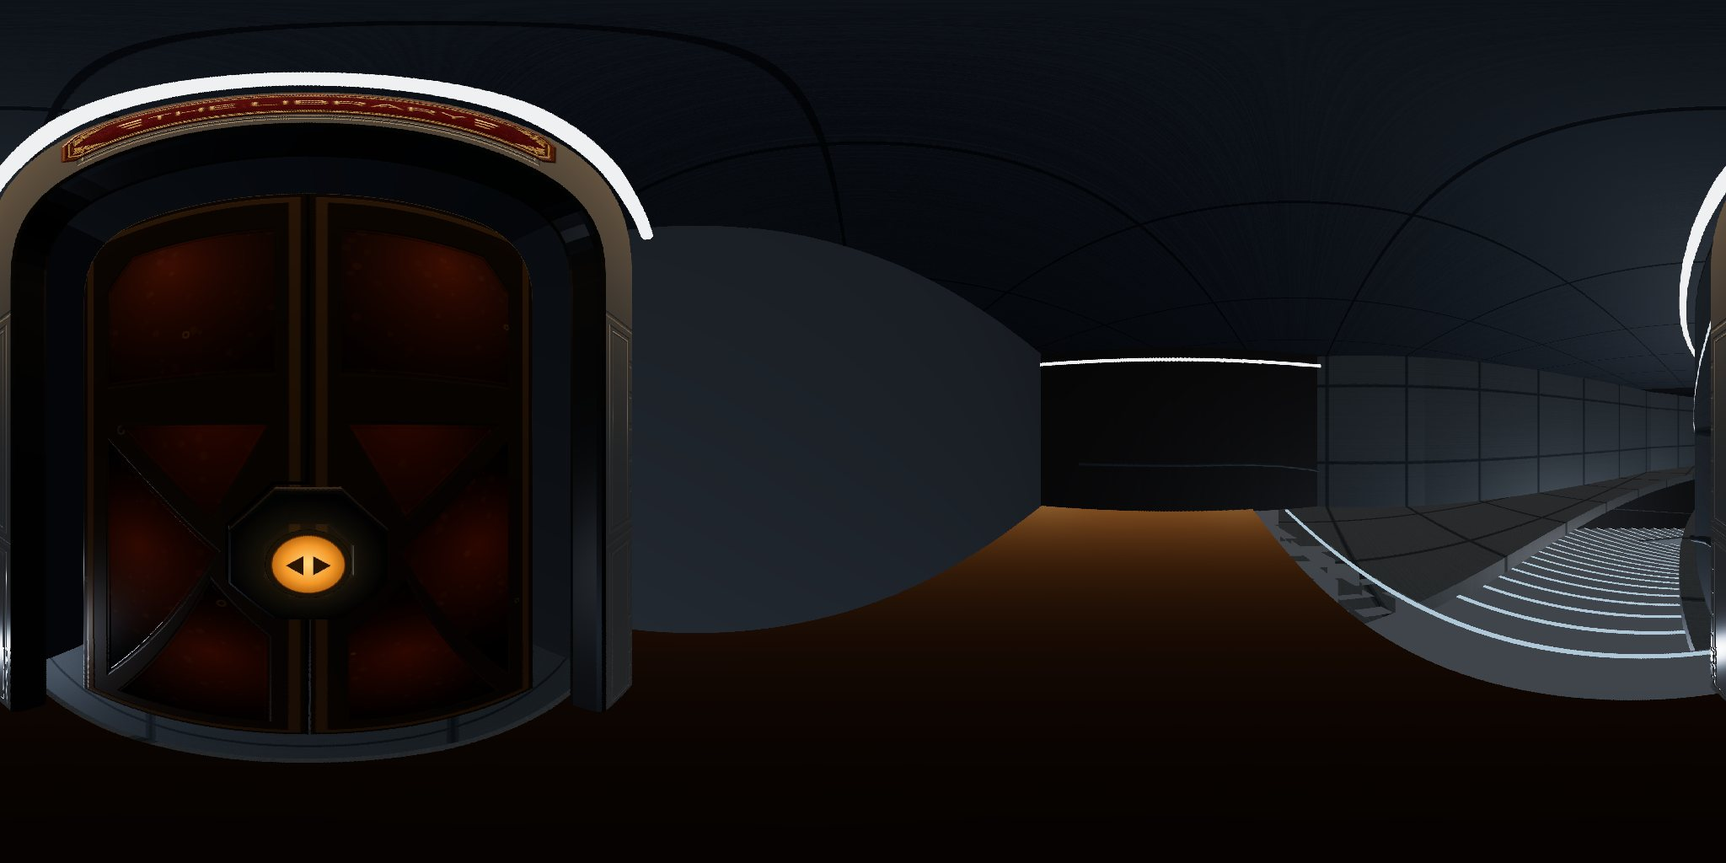
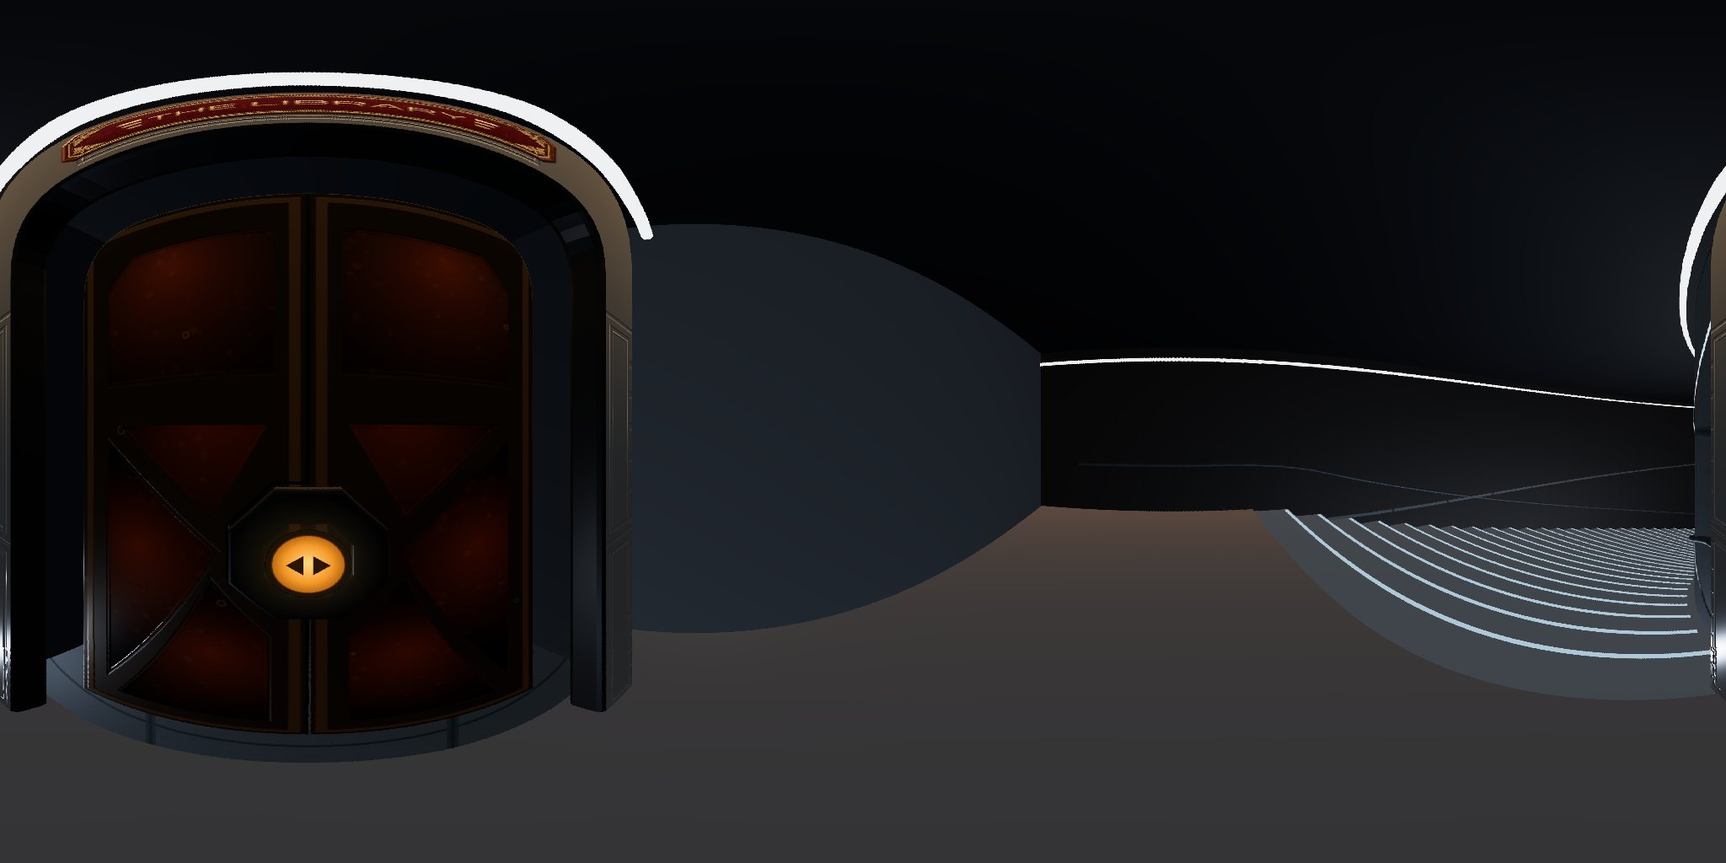
Stairwell remediation: drop kit Aft_Transition slabs + apron ceiling, ship-spec.js single source, body/head collision
Claude-Session: https://claude.ai/code/session_015swmRUrM192GXN4kgLQwkg

Changed region(s): [[0.0, 0.4062, 1.0, 1.0], [0.9688, 0.5938, 1.0, 0.75]]

diff --git a/atrium.js b/atrium.js
@@ -9,7 +9,7 @@
 // landings, treads): steps up ≤ 0.5 m / down ≤ 0.7 m are taken (that is how the stairs work), anything else (the opening, a wall
 // line, the end of a floor) puts you back where you were. Doors = the shared door.js, at the kit's thresholds.
 (function () {
-  var THREE = AFRAME.THREE, OFF = -0.65, LOW = -5.95, KIT = 'models/atrium/';
+  var THREE = AFRAME.THREE, OFF = -0.65, SPEC = window.WF_SPEC, LOW = SPEC.decks.lower, KIT = 'models/atrium/';
   var MOB = /iPhone|iPad|Android/i.test(navigator.userAgent) || (navigator.maxTouchPoints > 1 && /Mac/.test(navigator.userAgent));
 
   // ── the ship's doorways in the atrium: kit thresholds; frame +z faces INTO the hall ──
@@ -122,14 +122,8 @@
     // upper hall ceiling (the kit's roof only covers the middle): the hall outline with the skylight cut out
     var sh = new THREE.Shape(outline.map(function (q) { return new THREE.Vector2(q[0], -q[1]); })), hole = new THREE.Path();
     hole.moveTo(-2.05, 17.55); hole.lineTo(2.05, 17.55); hole.lineTo(2.05, -18.05); hole.lineTo(-2.05, -18.05); hole.lineTo(-2.05, 17.55); sh.holes.push(hole);
-    var hc = new THREE.Mesh(new THREE.ShapeGeometry(sh), M.steel); hc.rotation.x = -Math.PI / 2; hc.position.y = 3.24; root.add(hc);
-    // ceiling over the upper aft apron (the kit leaves it open), with an amber ring round the Library wall
-    var rs = new THREE.Shape(), ra = Math.asin(-10.3 / 21.5), k;   // outer arc (through +z) closed by the line z = 25.7; the Library wall is the hole
-    for (k = 0; k <= 96; k++) { var aa = ra + (Math.PI - 2 * ra) * k / 96, px = 21.5 * Math.cos(aa), pz = 36 + 21.5 * Math.sin(aa); if (k === 0) rs.moveTo(px, -pz); else rs.lineTo(px, -pz); }
-    rs.lineTo(-21.5 * Math.cos(ra), -25.7); rs.lineTo(21.5 * Math.cos(ra), -25.7);
-    var rh = new THREE.Path(); for (k = 0; k <= 96; k++) { var ab = 2 * Math.PI * k / 96, hx = 10.2 * Math.cos(ab), hz = 36 + 10.2 * Math.sin(ab); if (k === 0) rh.moveTo(hx, -hz); else rh.lineTo(hx, -hz); } rs.holes.push(rh);
-    var cmat = M.steel.clone(); cmat.side = THREE.DoubleSide; cmat.polygonOffset = true; cmat.polygonOffsetFactor = 2; cmat.polygonOffsetUnits = 2;
-    var ceil = new THREE.Mesh(new THREE.ShapeGeometry(rs, 24), cmat); ceil.rotation.x = -Math.PI / 2; ceil.position.set(0, 3.22, 0); root.add(ceil);   // (rotation.x −90°: shape y → world −z, so z was negated above)
+    var hc = new THREE.Mesh(new THREE.ShapeGeometry(sh), M.steel); hc.name = 'HallCeiling'; hc.rotation.x = -Math.PI / 2; hc.position.y = 3.24; root.add(hc);
+    // (the old upper aft-apron ceiling plane at y 3.22 is gone: it sat 2 cm under ShaftRoof (3.24) and covered nothing the shaft roof does not)
     var ring = new THREE.Mesh(new THREE.TorusGeometry(10.35, 0.04, 6, 128), M.amber); ring.rotation.x = Math.PI / 2; ring.position.set(0, 3.12, 36); root.add(ring);
     // amber cove strips along the top of the hall walls (both decks) and a bronze sill line
     [0, LOW].forEach(function (y0) { [-1, 1].forEach(function (s) {
@@ -140,7 +134,7 @@
   // ── Nov 28 REBUILD (user: "just a plain ass stairwell"): ONE wide flight per side, wall to wall (Library wall r 10.2 -> shaft wall r 16),
   // open to the tall lit shaft, no tunnel / kit rails / foyer arches. Same footprint as before (foot θ 0.41, top θ 1.92, landing to 2.18) so
   // the map routes, spawns and Library stair doors still line up. Treads/risers = 34 plain steps of 17.5 cm; a flat landing in front of the Library door.
-  var ST_T0 = 0.41, ST_T1 = 1.92, ST_TE = 2.18, ST_N = 34, ST_RI = 10.2, ST_RO = 16.05;
+  var ST_T0 = SPEC.stairs.t0, ST_T1 = SPEC.stairs.t1, ST_TE = SPEC.stairs.te, ST_N = SPEC.stairs.n, ST_RI = SPEC.stairs.ri, ST_RO = SPEC.stairs.ro;   // ship-spec.js
   function buildStairs(root) {
     var rise = -LOW / ST_N, d = (ST_T1 - ST_T0) / ST_N;
     var topM = M.steel.clone(); topM.side = THREE.DoubleSide; topM.color.set(0x4a525a); topM.roughness = 0.6; topM.metalness = 0.3; topM.emissive = new THREE.Color(0x141a20); topM.envMapIntensity = 0.3;
@@ -211,7 +205,7 @@
   // ── Nov 27: STAIRWELL SHAFT, BRAIN WINDOWS, LIGHTING ─────────────────────────────────────────────────────────────
   // The twin stairs spiral round the Library/Engine core inside a shaft: outer wall r 16 from the lower floor to the upper ceiling
   // (D-shaped: it meets the hall mouth at z 25.8), lights, and glass windows in the lower core wall onto the electrogel tank + brain.
-  var SH_R = 16.0, SH_TOP = 3.24, MOUTH = 25.8;
+  var SH_R = SPEC.shaft.wallR, SH_TOP = SPEC.shaft.roofY, MOUTH = SPEC.shaft.mouthZ;
   function polyWall(root, mat, pts, y0, y1, rows, name) {
     var pos = [], uv = [], idx = [], run = 0, i, j;
     for (i = 0; i < pts.length - 1; i++) {
@@ -251,6 +245,10 @@
     polyWall(root, pm, [[-2.62, 24.9], [-1.05, 24.9]], LOW, -0.23, 3, 'PartL'); polyWall(root, pm, [[1.05, 24.9], [2.62, 24.9]], LOW, -0.23, 3, 'PartR');
     polyWall(root, pm, [[-1.05, 24.9], [1.05, 24.9]], LOW + 2.95, -0.23, 1, 'PartLintel');
     polyWall(root, pm, [[-2.62, 24.9], [-2.62, 27.1]], LOW, -0.23, 3, 'NTunnelL'); polyWall(root, pm, [[2.62, 24.9], [2.62, 27.1]], LOW, -0.23, 3, 'NTunnelR');
+    // north-tunnel floor + roof (the kit's Aft_Transition floor slabs that used to carry these covered the whole stair shaft and are no longer loaded)
+    (function () { var fm = new THREE.MeshStandardMaterial({ color: 0x3a4047, roughness: 0.55, metalness: 0.3, side: THREE.DoubleSide }), g = new THREE.PlaneGeometry(5.24, 1.4); g.rotateX(-Math.PI / 2);
+      var fl = new THREE.Mesh(g, fm); fl.name = 'Floor_tunnel'; fl.position.set(0, LOW + 0.005, 26.4); fl.userData.v8Skip = true; root.add(fl); walk.push(fl);
+      var rf = new THREE.Mesh(g, fm); rf.name = 'TunnelRoof'; rf.position.set(0, -0.23, 26.4); rf.userData.v8Skip = true; root.add(rf); })();
     (function () { var pl = new THREE.PointLight(0xd8e8ff, 1.2, 7, 1.5); pl.position.set(0, LOW + 2.4, 25.9); root.add(pl); var bm2 = new THREE.MeshBasicMaterial({ color: 0xcfe8ff, fog: false }); [-1.05, 1.05].forEach(function (x) { var ln = new THREE.Mesh(new THREE.BoxGeometry(0.05, 2.9, 0.05), bm2); ln.position.set(x, LOW + 1.5, 24.95); ln.name = 'ArchLine'; ln.userData.v8Skip = true; root.add(ln); }); })();   // Nov 28: sealed passage from the lower-hall door to the north Core door
     // thin light lines round the shaft + a bronze band at each deck
     [[LOW + 0.55, M.teal], [-0.34, M.gun], [2.95, M.amber]].forEach(function (q) { polyWall(root, q[1], arcPts(SH_R - 0.04, a0, 180 - a0, 2, 0, 36), q[0], q[0] + 0.07, 1, 'ShaftBand'); });
@@ -348,7 +346,7 @@
     if ((z0 < MOUTH) !== (z1 < MOUTH)) { var t = (MOUTH - z0) / (z1 - z0), xx = x0 + (x1 - x0) * t; if (Math.abs(xx) > 2.45) return true; }
     if (fy < -3 && (z0 < 24.9) !== (z1 < 24.9)) { var t2 = (24.9 - z0) / (z1 - z0), x2 = x0 + (x1 - x0) * t2; if (Math.abs(x2) > 0.95) return true; }
     var r1w = Math.hypot(x1, z1 - 36), th1 = Math.atan2(Math.abs(x1), z1 - 36);   // the flights run wall to wall: keep out of the inner (Library) wall, except at its stair-top door
-    if (th1 > ST_T0 + 0.02 && th1 < ST_TE && r1w < (Math.abs(th1 - 2.02) < 0.13 ? 10.0 : 10.32) && r1w > 9.0 && z1 > 25) return true;
+    if (th1 > ST_T0 + 0.02 && th1 < ST_TE && r1w < (Math.abs(th1 - 2.02) < 0.13 ? 10.0 : SPEC.stairs.ri + BODY_R + 0.05) && r1w > 9.0 && z1 > 25) return true;
     return false;
   }
 
@@ -438,6 +436,28 @@
     return best;
   }
 
+  // ── Nov 28 BODY + HEAD COLLISION (the floor ray alone knew nothing about the player's volume) ──
+  // solids: procedural wall/shaft/door-reveal meshes; ceils: roofs. Checked per 9 cm sub-step with horizontal rays at knee/chest/head height
+  // (movement direction ± 45°) and an upward ray for head clearance. Treads/risers/floors are NOT solids (they are the walk surface).
+  var solids = [], ceils = [], rayH = new THREE.Raycaster(), rayU = new THREE.Raycaster(), HV = new THREE.Vector3(), UP = new THREE.Vector3(0, 1, 0), BODY_R = SPEC.bodyRadius, HEAD = SPEC.headroom;
+  function collectSolids(g) {
+    g.traverse(function (o) {
+      if (!o.isMesh || !o.name) return;
+      if (/^(StairWallInner|StairCap|StairFootPlate|ShaftArc|ShaftFront|PartL|PartR|PartLintel|NTunnel|TunnelMouth|CoreWall|Wall)/.test(o.name)) { o.material.side = THREE.DoubleSide; solids.push(o); }
+      else if (/^(ShaftRoof|CoreLid|TunnelRoof|HallCeiling)/.test(o.name)) { o.material.side = THREE.DoubleSide; ceils.push(o); }
+    });
+  }
+  function bodyBlocked(x0, z0, x1, z1, fy) {
+    var dx = x1 - x0, dz = z1 - z0, L = Math.hypot(dx, dz); if (L < 1e-6) return false;
+    var hs = [0.4, 1.0, 1.7], a, h, k, base = Math.atan2(dz, dx), offs = [0, 0.8, -0.8];
+    if (solids.length) for (h = 0; h < hs.length; h++) for (k = 0; k < offs.length; k++) {
+      a = base + offs[k]; HV.set(Math.cos(a), 0, Math.sin(a)); O.set(x0, fy + hs[h], z0); rayH.set(O, HV); rayH.far = BODY_R + L;
+      var hit = rayH.intersectObjects(solids, false); if (hit.length && hit[0].distance < BODY_R + L * 0.5) return true;
+    }
+    if (ceils.length) { O.set(x1, fy + 0.3, z1); rayU.set(O, UP); rayU.far = HEAD - 0.3; if (rayU.intersectObjects(ceils, false).length) return true; }
+    return false;
+  }
+
   AFRAME.registerComponent('wf-atrium', {
     init: function () {
       var self = this, sc = this.el.sceneEl; this.cam = document.getElementById('cam'); this.player = document.getElementById('player'); this.floorY = 0; this.last = null;
@@ -446,8 +466,8 @@
     build: function (sc) {
       var self = this, root = new THREE.Group(); root.position.y = OFF; this.el.object3D.add(root);   // kit space (upper floor at kit y 0.65)
       var flat = new THREE.Group(); this.el.object3D.add(flat);                                          // game space (upper floor y 0)
-      mats(envMap(sc.renderer)); buildLights(flat); buildStairShaft(flat); buildStairs(flat);   /* Nov 27: the core + mezzanine Library moved to core.html / library.html (loading weight) */
-      var loader = new THREE.GLTFLoader(), parts = ['Split_Hall_Upper', 'Atrium_Lower', 'Aft_Transition_Upper', 'Aft_Transition_Lower'], left = parts.length + 1, failed = [];
+      mats(envMap(sc.renderer)); buildLights(flat); buildStairShaft(flat); buildStairs(flat); collectSolids(flat);   /* Nov 27: the core + mezzanine Library moved to core.html / library.html (loading weight) */
+      var loader = new THREE.GLTFLoader(), parts = ['Split_Hall_Upper', 'Atrium_Lower'], left = parts.length + 1, failed = [];
       parts.forEach(function (n) { loader.load(KIT + n + '.glb?v=1', function (g) { root.add(merge(g.scene, walk)); if (--left === 0) self.ready(failed); }, null, function (e) { console.error('atrium', n, e); failed.push(n); if (--left === 0) self.ready(failed); }); });
       fetch('reference/atrium-kit/layout.json').then(function(r){if(!r.ok)throw Error('layout '+r.status);return r.json();}).then(function(LY){buildWalls(flat,LY.corridor.outerPolygon);}).catch(function(e){console.error(e);failed.push('layout / walls');}).then(function(){if(--left===0)self.ready(failed);});
       buildDoors(sc, flat);
@@ -513,7 +533,7 @@
             var insideCore = Math.hypot(x,z-36) < radius && z > 25.5;
             if (this.floorY >= -3) { var u0 = Math.hypot(this.last.x, this.last.z - 36), u1 = Math.hypot(x, z - 36), th = Math.atan2(x, z - 36); insideCore = (u0 - 10.2) * (u1 - 10.2) < 0 && !((Math.abs(x) < 0.95 && z < 36) || Math.abs(Math.abs(th) - 2.02) < 0.1); }   // upper deck: the Library wall is crossed only at the hall gap and the two stair doorways
             if (this.floorY < -3) { var rr0 = Math.hypot(this.last.x, this.last.z - 36), rr1 = Math.hypot(x, z - 36); insideCore = (rr0 - 9.4) * (rr1 - 9.4) < 0 && !(Math.abs(x) < 0.95 && z < 36); }   // lower deck: the core is the open engineering gallery, entered only by the old Engine doorway
-            if (y===null || insideCore || wallBlocked(this.floorY, this.last.x, this.last.z, x, z, doors.filter(function (q) { return q.d.id === 'lowerhall'; })[0])) break;
+            if (y===null || insideCore || bodyBlocked(this.last.x, this.last.z, x, z, this.floorY) || wallBlocked(this.floorY, this.last.x, this.last.z, x, z, doors.filter(function (q) { return q.d.id === 'lowerhall'; })[0])) break;
             this.floorY=y; this.last.x=x; this.last.z=z;
           }
           p.x=this.last.x; p.z=this.last.z;

diff --git a/life.js b/life.js
@@ -385,8 +385,11 @@
     });
     if (lower) add('polygon', { points: ptsS(LAYOUT.corridor.outerPolygon), fill: 'none', stroke: C_LINE, 'stroke-width': 1.2, 'pointer-events': 'none' });
     // twin curved stairs: identical on both decks
-    [-1, 1].forEach(function (sx) { var d = '', a, p; for (a = -0.35; a <= 1.16; a += 0.05) { p = P(sx * 11.35 * Math.cos(a), 36 + 11.35 * Math.sin(a)); d += (d ? 'L' : 'M') + p[0].toFixed(1) + ' ' + p[1].toFixed(1); }
-      add('path', { d: d, fill: 'none', stroke: '#ffd27a', 'stroke-width': 3.2, opacity: .85, 'stroke-dasharray': '1.5 2.5', 'pointer-events': 'none' }); var m = P(sx * 11.35 * Math.cos(.4), 36 + 11.35 * Math.sin(.4)), t = add('text', { x: m[0] + sx * 9, y: m[1], 'text-anchor': 'middle', fill: '#ffd27a', 'font-size': 6.2, 'font-family': FONT, 'letter-spacing': 1, 'pointer-events': 'none' }); t.textContent = lower ? 'UP' : 'DOWN'; });
+    [-1, 1].forEach(function (sx) { var d = '', a, p, st = WF_SPEC.stairs, k; for (k = 0; k <= 24; k++) { a = st.t0 + (st.t1 - st.t0) * k / 24; p = P.apply(null, WF_SPEC.pt(sx, st.ro, a)); d += (d ? 'L' : 'M') + p[0].toFixed(1) + ' ' + p[1].toFixed(1); }
+      for (k = 24; k >= 0; k--) { a = st.t0 + (st.t1 - st.t0) * k / 24; p = P.apply(null, WF_SPEC.pt(sx, st.ri, a)); d += 'L' + p[0].toFixed(1) + ' ' + p[1].toFixed(1); }
+      add('path', { d: d + 'Z', fill: 'rgba(255,210,122,.10)', stroke: '#ffd27a', 'stroke-width': 1.2, opacity: .9, 'pointer-events': 'none' });
+      for (k = 1; k < 9; k++) { a = st.t0 + (st.t1 - st.t0) * k / 9; var q0 = P.apply(null, WF_SPEC.pt(sx, st.ri, a)), q1 = P.apply(null, WF_SPEC.pt(sx, st.ro, a)); add('path', { d: 'M' + q0[0].toFixed(1) + ' ' + q0[1].toFixed(1) + 'L' + q1[0].toFixed(1) + ' ' + q1[1].toFixed(1), stroke: '#ffd27a', 'stroke-width': .5, opacity: .5, 'pointer-events': 'none' }); }
+      var m = P.apply(null, WF_SPEC.pt(sx, st.rc, (st.t0 + st.t1) / 2)), t = add('text', { x: m[0], y: m[1], 'text-anchor': 'middle', fill: '#ffd27a', 'font-size': 6.2, 'font-family': FONT, 'letter-spacing': 1, 'pointer-events': 'none' }); t.textContent = lower ? 'UP' : 'DOWN'; });
     if (eng) { for (z = -50; z <= 50; z += 10) { var gz = P(0, z), tk = add('text', { x: 66, y: gz[1] + 2, fill: 'rgba(207,238,255,.45)', 'font-size': 6, 'font-family': FONT }); tk.textContent = (z > 0 ? '+' : '') + z + ' m'; add('path', { d: 'M62 ' + gz[1] + 'H68', stroke: 'rgba(207,238,255,.4)', 'stroke-width': .6 }); } }
     // title block + compass + scale
     var tb = add('rect', { x: 372, y: 892, width: 164, height: 38, fill: 'rgba(10,20,36,.9)', stroke: 'rgba(127,227,255,.5)', 'stroke-width': .8 });
@@ -434,7 +437,7 @@
   }
   // ═══ ROUTES: A* over the deck's walkable floor (atrium + room shapes, minus furniture), stairs link the decks ═══
   var GRIDS = {}, CELL = 0.5, GX0 = -32, GZ0 = -56, GNX = 128, GNZ = 224, STAIR = [{ x: 0, z: 0 }, { x: 0, z: 0 }];
-  function stairEnd(sx, a) { return [sx * 11.35 * Math.cos(a), 36 + 11.35 * Math.sin(a)]; }
+  function stairEnd(sx, a) { return a < 0 ? WF_SPEC.stairTop(sx) : WF_SPEC.stairFoot(sx); }   // ship-spec.js: a < 0 = top (upper landing), else foot (lower foyer)
   function inPoly(p, x, z) { var c = false, i, j; for (i = 0, j = p.length - 1; i < p.length; j = i++) if ((p[i][1] > z) !== (p[j][1] > z) && x < (p[j][0] - p[i][0]) * (z - p[i][1]) / (p[j][1] - p[i][1]) + p[i][0]) c = !c; return c; }
   function walkGrid(which) {
     if (GRIDS[which]) return GRIDS[which]; var lower = which === 'lower', ok = new Uint8Array(GNX * GNZ), i, j, polys = [], circs = [], block = [], SRC = lower ? (DECK2 || {}) : (DECK || {});
@@ -451,7 +454,7 @@
       for (k = 1; k < polys.length && !w; k++) if (inPoly(polys[k], x, z)) w = true;
       for (k = 0; k < circs.length && !w; k++) { var d = Math.hypot(x - circs[k].x, z - circs[k].z); if (d < circs[k].r - 0.4 && d > circs[k].hole) w = true; }
       for (k = 0; k < doors.length && !w; k++) { var dr = doors[k], vert = Math.abs(dr[0]) > 2.4; if (Math.abs(x - dr[0]) < (vert ? 1.6 : 1.0) && Math.abs(z - dr[2]) < (vert ? 1.0 : 1.6)) w = true; }
-      for (k = 0; k < 2 && !w; k++) { var se = stairEnd(k ? 1 : -1, k ? -0.35 : -0.35); if (Math.hypot(x - se[0], z - se[1]) < 2.2) w = true; var sf = stairEnd(k ? 1 : -1, 1.16); if (Math.hypot(x - sf[0], z - sf[1]) < 2.2) w = true; }
+      { var st = WF_SPEC.stairs, sr = Math.hypot(x, z - WF_SPEC.shaft.cz), sth = Math.atan2(Math.abs(x), z - WF_SPEC.shaft.cz); if (!w && sr > st.ri + 0.35 && sr < st.ro - 0.35 && sth > st.t0 && sth < st.te - 0.1) w = true; }   // the built flights: one band per side wall to wall (ship-spec.js)
       if (!w && lower && Math.abs(x) < 6.2 && z > 44.2 && z < 47.6) w = true;   // stair-foot foyer, joins the Core door at (0, 45.4)
       if (w) for (k = 0; k < block.length; k++) if (inPoly(block[k], x, z)) { w = false; break; }
       if (!w && !lower) for (k = 0; k < 2; k++) { var e = stairEnd(k ? 1 : -1, -0.35), f = [e[0] * 0.55, 36 + (e[1] - 36) * 0.55], vx = f[0] - e[0], vz = f[1] - e[1], tt = Math.max(0, Math.min(1, ((x - e[0]) * vx + (z - e[1]) * vz) / (vx * vx + vz * vz))); if (Math.hypot(x - e[0] - vx * tt, z - e[1] - vz * tt) < 1.0) w = true; }   // stair-top door -> Library floor, through the bookcase ring

diff --git a/ship-spec.js b/ship-spec.js
@@ -1,0 +1,27 @@
+// SS Wayfarer — ONE SOURCE OF TRUTH for the aft stair shaft (Nov 28 remediation).
+// atrium.js (render + walking), life.js (deck map, routes), crew.js (NPC nodes) and spawns all read these numbers.
+// Ship coordinates: bow −Z, port −X, upper floor y 0, lower floor y LOW. θ is measured from +Z toward +X: x = sg·r·sinθ, z = cz + r·cosθ.
+(function () {
+  var S = {
+    decks: { upper: 0, lower: -5.95 },
+    shaft: { cx: 0, cz: 36, roofY: 3.24, wallR: 16.0, libraryWallR: 10.2, coreWallR: 9.4, mouthZ: 25.8 },
+    // Built stair: ONE wide flight per side wall to wall (Library wall → shaft wall). layout.json's 1.8 m / r 11.35 was the blockout of the
+    // retired Twin_Curved_Stairs GLB; with the shaft walls at 16.05 it would leave a 3.8 m open void, so the built width (5.85 m) is the truth.
+    stairs: { ri: 10.2, ro: 16.05, t0: 0.41, t1: 1.92, te: 2.18, n: 34, sides: [-1, 1] },
+    headroom: 2.1, bodyRadius: 0.28
+  };
+  S.stairs.rc = (S.stairs.ri + S.stairs.ro) / 2;
+  S.stairs.rise = (S.decks.upper - S.decks.lower) / S.stairs.n;
+  S.stairs.dTheta = (S.stairs.t1 - S.stairs.t0) / S.stairs.n;
+  S.pt = function (sg, r, th) { return [sg * r * Math.sin(th), S.shaft.cz + r * Math.cos(th)]; };
+  S.stairTop = function (sg) { return S.pt(sg, S.stairs.rc, S.stairs.t1); };     // where the flight meets the upper landing
+  S.stairFoot = function (sg) { return S.pt(sg, S.stairs.rc, S.stairs.t0); };    // where it meets the lower foyer
+  // floor height of the flight at (x, z); null when off the flight
+  S.stairY = function (x, z) {
+    var st = S.stairs, dx = x, dz = z - S.shaft.cz, r = Math.hypot(dx, dz), th = Math.atan2(Math.abs(dx), dz);
+    if (r < st.ri || r > st.ro || th < st.t0 || th > st.te) return null;
+    if (th >= st.t1) return S.decks.upper;
+    return Math.min(S.decks.upper, S.decks.lower + st.rise + (th - st.t0) / st.dTheta * st.rise);
+  };
+  window.WF_SPEC = S;
+})();

diff --git a/index.html b/index.html
@@ -22,14 +22,13 @@
   <meta name="twitter:card" content="summary_large_image">
   <link rel="preload" as="fetch" crossorigin href="models/atrium/Split_Hall_Upper.glb?v=1">
   <link rel="preload" as="fetch" crossorigin href="models/atrium/Atrium_Lower.glb?v=1">
-  <link rel="preload" as="fetch" crossorigin href="models/atrium/Aft_Transition_Upper.glb?v=1">
-  <link rel="preload" as="fetch" crossorigin href="models/atrium/Aft_Transition_Lower.glb?v=1">
   <link rel="preload" as="fetch" crossorigin href="reference/atrium-kit/layout.json">
   <script src="loadscreen.js?v=20261128lr"></script>
   <script src="textures.js?v=20261127zu"></script>
   <script src="https://aframe.io/releases/1.5.0/aframe.min.js"></script>
   <script src="mobile.js?v=20261127s"></script>
-  <script src="life.js?v=20261128le"></script>
+  <script src="ship-spec.js?v=20261128sp"></script>
+  <script src="life.js?v=20261128lf"></script>
   <script src="manual.js?v=20261127z9"></script>
   <script src="menubar.js?v=20261128b"></script>
   <script src="launcher.js?v=20261128o"></script>
@@ -63,7 +62,7 @@
     </a-entity>
     <a-entity id="atrium" wf-atrium></a-entity>
   </a-scene>
-  <script src="atrium.js?v=20261128za"></script>
+  <script src="atrium.js?v=20261128zd"></script>
   <script src="interior-v8.js?v=20261127zb"></script>
   <script src="furniture.js?v=20261127u"></script>
   <script src="realism-loader.js?v=20261127v"></script>

diff --git a/station.html b/station.html
@@ -16,6 +16,7 @@
   <script>if (/[?&]from=dock/.test(location.search)) document.documentElement.className += ' from-dock';</script>
   <script src="https://aframe.io/releases/1.5.0/aframe.min.js"></script>
   <script src="mobile.js?v=20261127s"></script>
+  <script src="ship-spec.js?v=20261128sp"></script>
   <script src="life.js?v=20261128le"></script>
   <script src="manual.js?v=20261127z9"></script>
   <script src="menubar.js?v=20261128b"></script>

diff --git a/minigame.html b/minigame.html
@@ -26,6 +26,7 @@
   <script src="shipskin.js?v=20261127s"></script>
   <script src="missions.js?v=20261127s"></script>
   <script src="sound.js?v=20261127s"></script>
+  <script src="ship-spec.js?v=20261128sp"></script>
   <script src="life.js?v=20261128le"></script>
   <script>if (/[?&]from=(bridge|station)/.test(location.search)) document.documentElement.className += ' from-bridge';</script>
   <style>

diff --git a/bridge.html b/bridge.html
@@ -23,6 +23,7 @@
   <script src="loadscreen.js?v=20261128lr"></script>
   <script src="https://aframe.io/releases/1.5.0/aframe.min.js"></script>
   <script src="mobile.js?v=20261127s"></script>
+  <script src="ship-spec.js?v=20261128sp"></script>
   <script src="life.js?v=20261128le"></script>
   <script src="manual.js?v=20261127z9"></script>
   <script src="menubar.js?v=20261128b"></script>

diff --git a/media.html b/media.html
@@ -23,6 +23,7 @@
   <script src="loadscreen.js?v=20261128lr"></script>
   <script src="https://aframe.io/releases/1.5.0/aframe.min.js"></script>
   <script src="mobile.js?v=20261127s"></script>
+  <script src="ship-spec.js?v=20261128sp"></script>
   <script src="life.js?v=20261128le"></script>
   <script src="manual.js?v=20261127z9"></script>
   <script src="menubar.js?v=20261128b"></script>

diff --git a/core.html b/core.html
@@ -24,6 +24,7 @@
   <script src="textures.js?v=20261127zu"></script>
   <script src="https://aframe.io/releases/1.5.0/aframe.min.js"></script>
   <script src="mobile.js?v=20261127s"></script>
+  <script src="ship-spec.js?v=20261128sp"></script>
   <script src="life.js?v=20261128le"></script>
   <script src="manual.js?v=20261127z9"></script>
   <script src="menubar.js?v=20261128b"></script>

diff --git a/corridor-old.html b/corridor-old.html
@@ -23,6 +23,7 @@
   <script src="textures.js?v=20261127zu"></script>
   <script src="https://aframe.io/releases/1.5.0/aframe.min.js"></script>
   <script src="mobile.js?v=20261127s"></script>
+  <script src="ship-spec.js?v=20261128sp"></script>
   <script src="life.js?v=20261128ld"></script>
   <script src="manual.js?v=20261127z9"></script>
   <script src="menubar.js?v=20261128b"></script>

diff --git a/engine.html b/engine.html
@@ -24,6 +24,7 @@
   <script src="textures.js?v=20261127zu"></script>
   <script src="https://aframe.io/releases/1.5.0/aframe.min.js"></script>
   <script src="mobile.js?v=20261127s"></script>
+  <script src="ship-spec.js?v=20261128sp"></script>
   <script src="life.js?v=20261128le"></script>
   <script src="manual.js?v=20261127z9"></script>
   <script src="menubar.js?v=20261128b"></script>

diff --git a/firefly.html b/firefly.html
@@ -24,6 +24,7 @@
   <script src="textures.js?v=20261127zu"></script>
   <script src="https://aframe.io/releases/1.5.0/aframe.min.js"></script>
   <script src="mobile.js?v=20261127s"></script>
+  <script src="ship-spec.js?v=20261128sp"></script>
   <script src="life.js?v=20261128le"></script>
   <script src="manual.js?v=20261127z9"></script>
   <script src="menubar.js?v=20261128b"></script>
